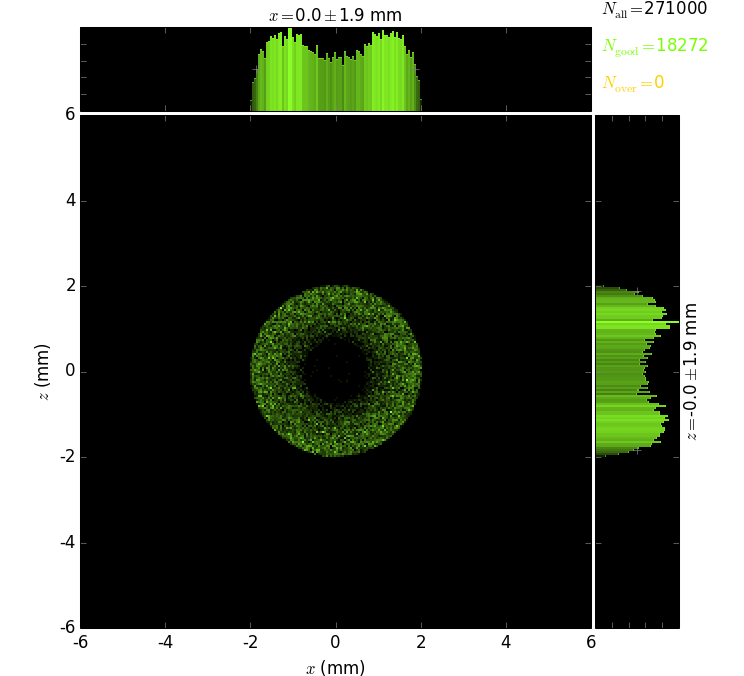
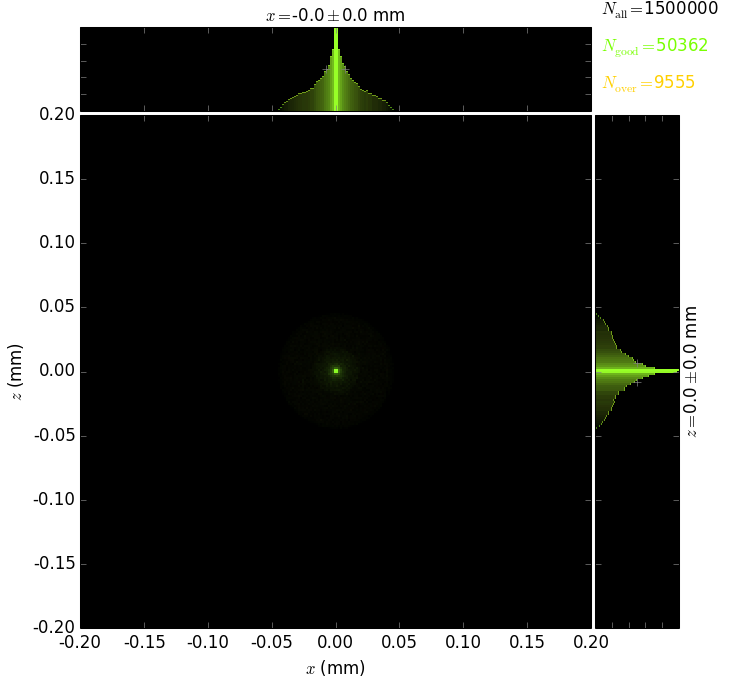
Straight capillary centered
Not a gaussian really

diff --git a/StraightCapillary.py b/StraightCapillary.py
@@ -4,6 +4,7 @@ Created on Thu Feb 19 17:52:40 2015
 
 @author: Vladimir Putin
 """
+""" rozmiar zrodla - najlepiej ~50um"""
 
 import numpy as np
 import matplotlib as mpl
@@ -24,12 +25,12 @@ mGlass = rm.Material(('Si', 'O'), quantities=(1, 2), rho=2.2)
 repeats = 1500 # number of ray traycing iterations
 E0 = 9000.
 rSample = 100. # starting position of the lens
-f = 1330. # y length in mm from foucs to the end of the lens
-screen2_pos = f + 500
-r0 = 0.071
-rOut = 0.0012
+f = 250. # y length in mm from foucs to the end of the lens
+screen2_pos = f + 100
+r0 = 0.03
+rOut = 0.03
 wall = 0.02
-plot2D_yLim = [-0.20, 0.4]
+plot2D_yLim = [-0.04, 0.04]
 layers = 10 # number of hexagonal layers
 nRefl = 12
 nReflDisp = 12 # unused
@@ -114,7 +115,7 @@ def build_beamline(nrays=1000):
     capillary = StraightCapillary(
         beamLine, 'StraightCapillary', [0,0,0], roll=roll,
         material=mGlass, limPhysY=[rSample*np.cos(alpha), f],
-        f=f, rSample=rSample, entranceAlpha=alpha, rIn=r0, rOut=rOut)
+        order=8, f=f, rSample=rSample, entranceAlpha=alpha, rIn=r0, rOut=rOut)
     beamLine.capillaries.append(capillary)         
     
     if beamLine.xzMax < capillary.b0:
@@ -180,7 +181,7 @@ def main():
     beamLine = build_beamline()
     plots = []
     
-    lim_ = 6
+    lim_ = 0.2
     limits = [-lim_, lim_]
     # at the entrance
     plot = xrtp.XYCPlot('beamFSM2', (1,3),
